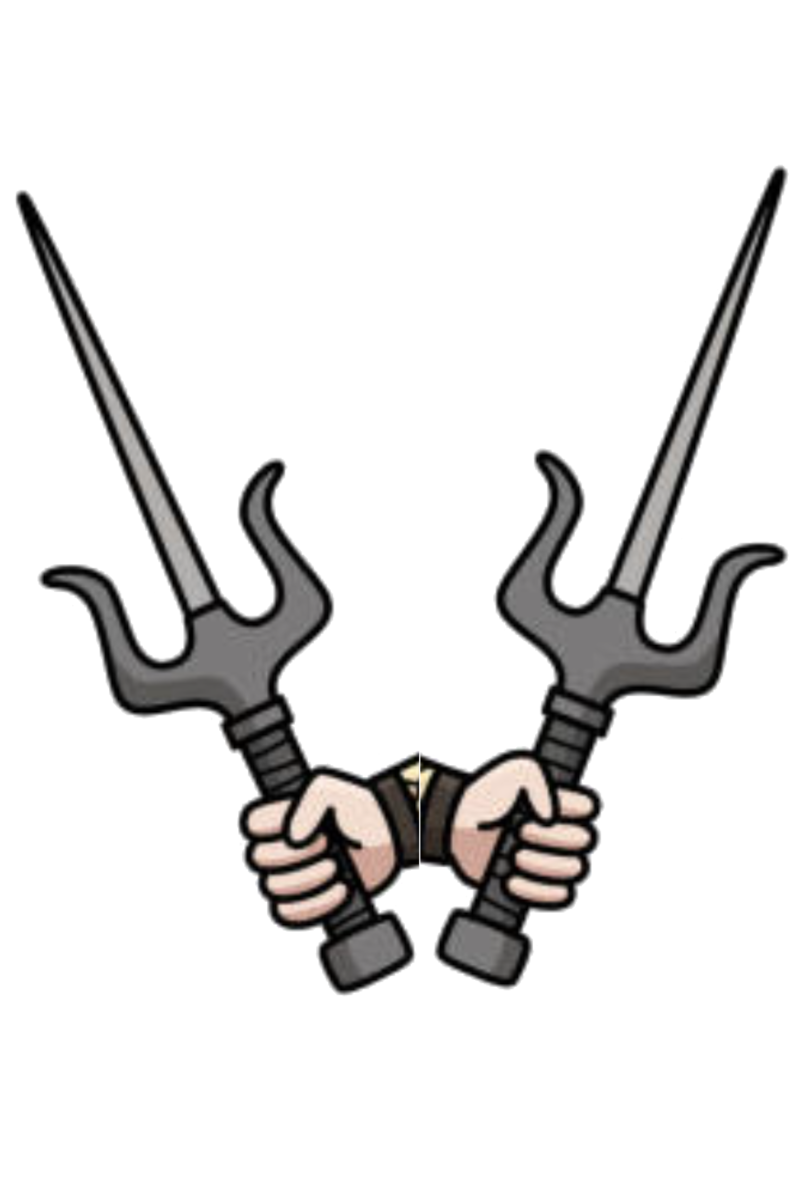
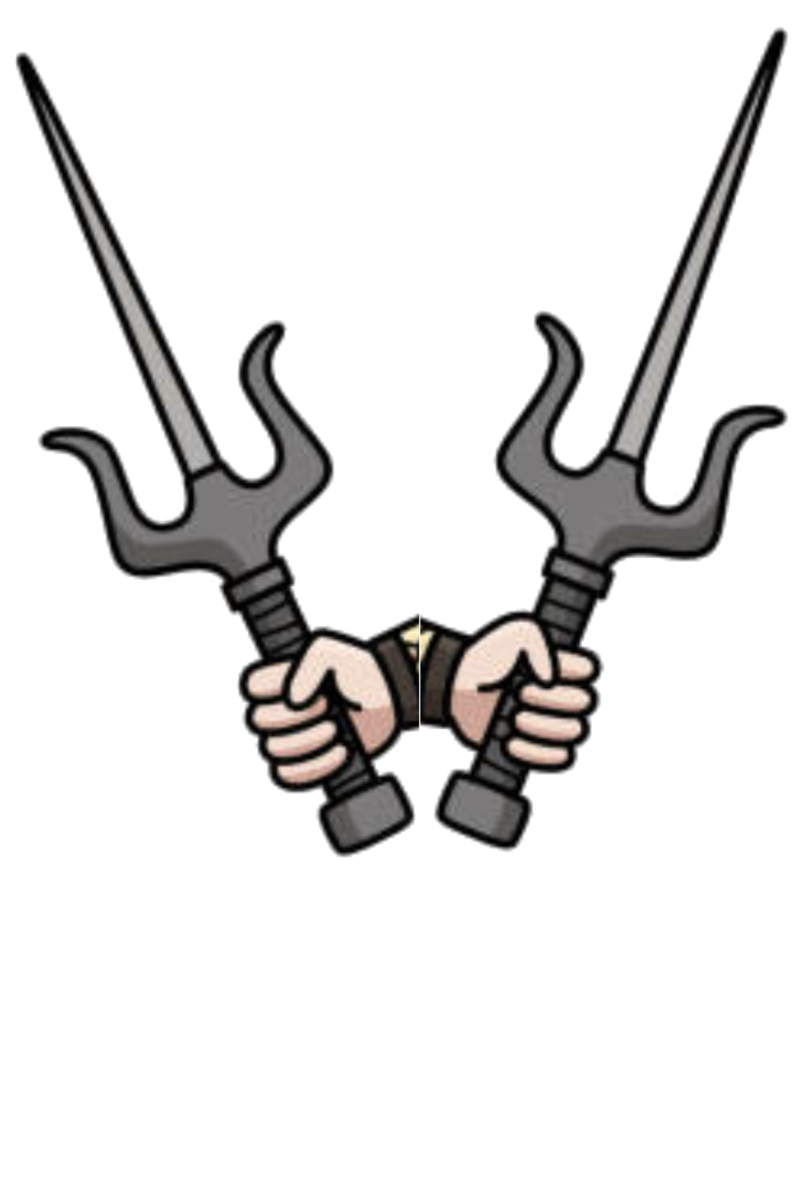
border & bleed

Changed region(s): [[0.0, 0.0, 1.0, 0.8325]]

diff --git a/src/app/whist-card.ts b/src/app/whist-card.ts
@@ -1,5 +1,5 @@
 import { C, F } from "@thegraid/common-lib";
-import { AliasLoader, CenterText, ImageGrid, RectShape, type CountClaz, type Paintable } from "@thegraid/easeljs-lib";
+import { AliasLoader, CenterText, ImageGrid, RectShape, type CountClaz, type GridSpec, type Paintable } from "@thegraid/easeljs-lib";
 import { Container, type DisplayObject } from "@thegraid/easeljs-module";
 import { Tile } from "@thegraid/hexlib";
 import { CardShape } from "./card-shape";
@@ -14,8 +14,8 @@ export class WhistCard extends Tile  {
   static rankSize = 120;
   // static family = 'SF Compact Rounded Bold'; static fontLead = 0;
   // static family = 'Nunito'; static fontLead = 0;
-  static family = 'Futura'; static fontLead = 12; // Futura steps on itself..
-  // static family = 'Helvetica Neue'; static fontLead = 6;
+  // static family = 'Futura'; static fontLead = 12; // Futura steps on itself..
+  static family = 'Helvetica Neue'; static fontLead = -14;
   // static family = 'Fishmonger CS'; static fontLead = 13;
   static nameFont = (`condensed 500 65px ${WhistCard.family}`); // semibold
   static coinFont = F.fontSpec(80, `${WhistCard.family}`, 'bold');
@@ -62,13 +62,17 @@ export class WhistCard extends Tile  {
     );
   }
 
-  override get radius() { return 734 } // nextRadius
+  override get radius() { return WhistCard.gridSpec.cardh ?? 734 } // nextRadius (750 x 1050)
 
   x0 = 200; // align title, colored text/boxes
   color = 'white';
   rank: string = '';
   image?: ImageBitmap;
 
+  static cardSingle_3_5: GridSpec = {
+    width: 3600, height: 5400, nrow: 6, ncol: 3, cardw: 1050, cardh: 750, // (inch_w*dpi + 2*bleed)
+    x0: 120 + 3.5 * 150 + 30, y0: 83 + 3.5 * 150 + 30, delx: 1125, dely: 825, bleed: 30, double: false,
+  };
   // static gridSpec = TileExporter.myGrid;
   static gridSpec = ImageGrid.cardSingle_3_5;
 
@@ -90,16 +94,30 @@ export class WhistCard extends Tile  {
 
   // WARN: invoked by constructor.super() BEFORE this.color is set
   override makeShape(size = this.radius): Paintable {
-    const bleed = WhistCard.gridSpec.bleed
-    return new CardShape(this.mcolor, this.mcolor, size, true, bleed, 60);
+    const bleed = WhistCard.gridSpec.bleed ?? 0
+    return new CardShape(this.mcolor, 'white', size, true, 45, 45); // size, portrait, ss, corner
   }
 
   override makeBleed(bleed: number): DisplayObject {
-    const rv = super.makeBleed(bleed) as RectShape;
-    rv.paint(rv.strokec, true);
+    const bs = this.baseShape as RectShape;
+    const { x, y, w, h } = bs._rect, ss = bs._sSiz+0, b = ss/2 + bleed;
+    // enlarge by 'bleed'; add corner radius and stroke size
+    const xywhrs = { x: x - b, y: y - b, w: w + b * 2, h: h + b * 2, r: 70, s: ss };
+    const rv = new RectShape(xywhrs, bs.strokec, ''); // (xywhrs, fillc, strokec)
+    rv.rotation = this.rotation
+    // const rv = super.makeBleed(bleed) as RectShape;
+    // rv.paint(rv.strokec, true);
     return rv;
   }
 
+  /**
+   * put dobj @ this.getBounds() + { x: dx, y: dy }
+   * if dobj2: put it upside down in opposite corner
+   * @param dobj
+   * @param dx
+   * @param dy
+   * @param dobj2
+   */
   set2corners(dobj: DisplayObject, dx = 0, dy = 0, dobj2?: DisplayObject) {
     const { x, y, width, height } = this.getBounds();
     dobj.x = x + dx;
@@ -156,7 +174,7 @@ export class WhistCard extends Tile  {
   }
 
   addPips() {
-    const dw = ((this.rank == 'A' || this.rank == 'j') ? .5 : (this.rank == 'K' || this.rank == 'J') ? .75 : .20);
+    const dw = ((this.rank == 'A' || this.rank == 'j') ? .5 : (this.rank == 'K' || this.rank == 'J') ? .68 : .20);
     const bmImage = this.suitBitmap(dw);
     if (bmImage) {
       if (dw > .3) {
@@ -171,17 +189,26 @@ export class WhistCard extends Tile  {
     this.addPips();
     const font = WhistCard.rankFont;
     const { x, y, width, height } = this.getBounds();
-    const dx = width * .1;
-    const dy = dx * 2.65;
-    const rank = (this.rank == 'j' ? 'J' : this.rank);
-    const rtext = new CenterText(rank, font, C.BLACK); rtext.textAlign = 'right';
-    const rtext2 = new CenterText(rank, font, C.BLACK); rtext2.textAlign = 'right';
-    this.set2corners(rtext, dx * 1.15, rtext.getMeasuredLineHeight() * 1.1, rtext2);
+    const bleed = WhistCard.gridSpec.bleed ?? 0;
 
-    const sImage1 = this.suitBitmap(.15, true);
-    const sImage2 = this.suitBitmap(.15, true);
+    // show rank (Text) in each corner:
+    const rank = (this.rank == 'j' ? 'J' : this.rank);
+    const dx = bleed + width * (rank !== '10' ? .01 : -.02); // inset text & image from edge of card
+    const rtext = new CenterText(rank, font, C.BLACK); rtext.textAlign = 'left'; rtext.textBaseline = 'top';
+    const rtext2 = new CenterText(rank, font, C.BLACK); rtext2.textAlign = 'left'; rtext2.textBaseline = 'top';
+    const mlh = rtext.getMeasuredLineHeight();
+    const dy = bleed + mlh * .05 + WhistCard.fontLead;
+    this.set2corners(rtext, dx, dy, rtext2);
+
+    // show suitBitmap below each rtext:
+    const si = .15; // scale image
+    const sImage1 = this.suitBitmap(si, true);
+    const sImage2 = this.suitBitmap(si, true);
     if (sImage1) {
-      this.set2corners(sImage1, dx - 13, dy, sImage2);
+      const { width, height } = { ...sImage1.getBounds(), width: 800 } // so staff.widht = 800
+      const dx = bleed + si * width / 2.2;           // inset; a bit left of center
+      const dy = bleed + si * height / 6 + mlh ;     // downset image from top of card
+      this.set2corners(sImage1, dx, dy, sImage2);
     }
     this.paint(this.color)
   }

diff --git a/src/app/card-shape.ts b/src/app/card-shape.ts
@@ -10,9 +10,10 @@ export class CardShape extends RectShape {
   size: number;
 
   /**
-   * RoundedRect: stroke size straddles the rect s/2 on each side.
-   * RectShape: expand RndRect by s/2 so stroke is outside the given rect (for highlighting in Ankh/PlayerPanel)
-   * CardShape: shrink RndRect by s   so stroke is inside the given rect
+   * * RoundedRect: stroke size straddles the rect s/2 on each side.
+   * * RectShape: expand RndRect by s/2 so stroke is outside the given rect (for highlighting in Ankh/PlayerPanel).
+   * * CardShape: shrink RectShape by s/2 so stroke again straddles the rect (so interior cRad works)
+   *
    * CardShape always centered on { x: 0, y: 0 }
    * @param fillc base color of card
    * @param strokec [C.grey64] supply '' for no stroke
@@ -25,33 +26,12 @@ export class CardShape extends RectShape {
     if (size <= 3) size = size * CardShape.defaultSize; // scale down for small size!
     const s = ss ?? size * .04;
     const a = 3.5 / 2.5; // aspect: length of long side relative to short side = 1.4
-    const w = (portrait ? size : size * a) - 2 * s;
-    const h = (portrait ? size * a : size) - 2 * s;
+    const w = (portrait ? size : size * a) - s; // shrink by s/2 on each side
+    const h = (portrait ? size * a : size) - s;
     const r = rr ?? Math.max(h, w) * .05;
     super({ x: -w / 2, y: -h / 2, w, h, r, s }, fillc, strokec);
     this.size = size;
     this._cgf = this.rscgf;     // replace ()=>{} with direct function (now that we can say 'this')
     this.paint(fillc, true); // this.graphics = rscgf(...)
-  }
-
-  // copied from createjs-lib.RectShape, to set: ss = 0
-  override rscgf(fillc: string, g = this.g0) {
-    const { x, y, w, h } = this._rect;
-    const s = this.strokec ? (this._sSiz ?? 0) : 0;
-    (fillc ? g.f(fillc) : g.ef());
-    (this.strokec ? g.s(this.strokec) : g.es());
-    if (this.strokec && (s > 0)) g.ss(s);  // use ss only if: strokec && (ss > 0)
-    // DO NOT enlarge _rect to include ss;
-    const ss = 0;
-    if (!!this._rr) {
-      const [tl, tr, br, bl] = this._rr
-      g.rc(x - ss / 2, y - ss / 2, w + ss, h + ss, tl, tr, br, bl);
-      // note: rc(...) is drawRoundRectComplex(x,y,w,h,rTL,rTR,rBR,rBL)
-    } else if (this._cRad === 0) {
-      g.dr(x - ss / 2, y - ss / 2, w + ss, h + ss);
-    } else {
-      g.rr(x - ss / 2, y - ss / 2, w + ss, h + ss, this._cRad);
-    }
-    return g;
   }
 }
